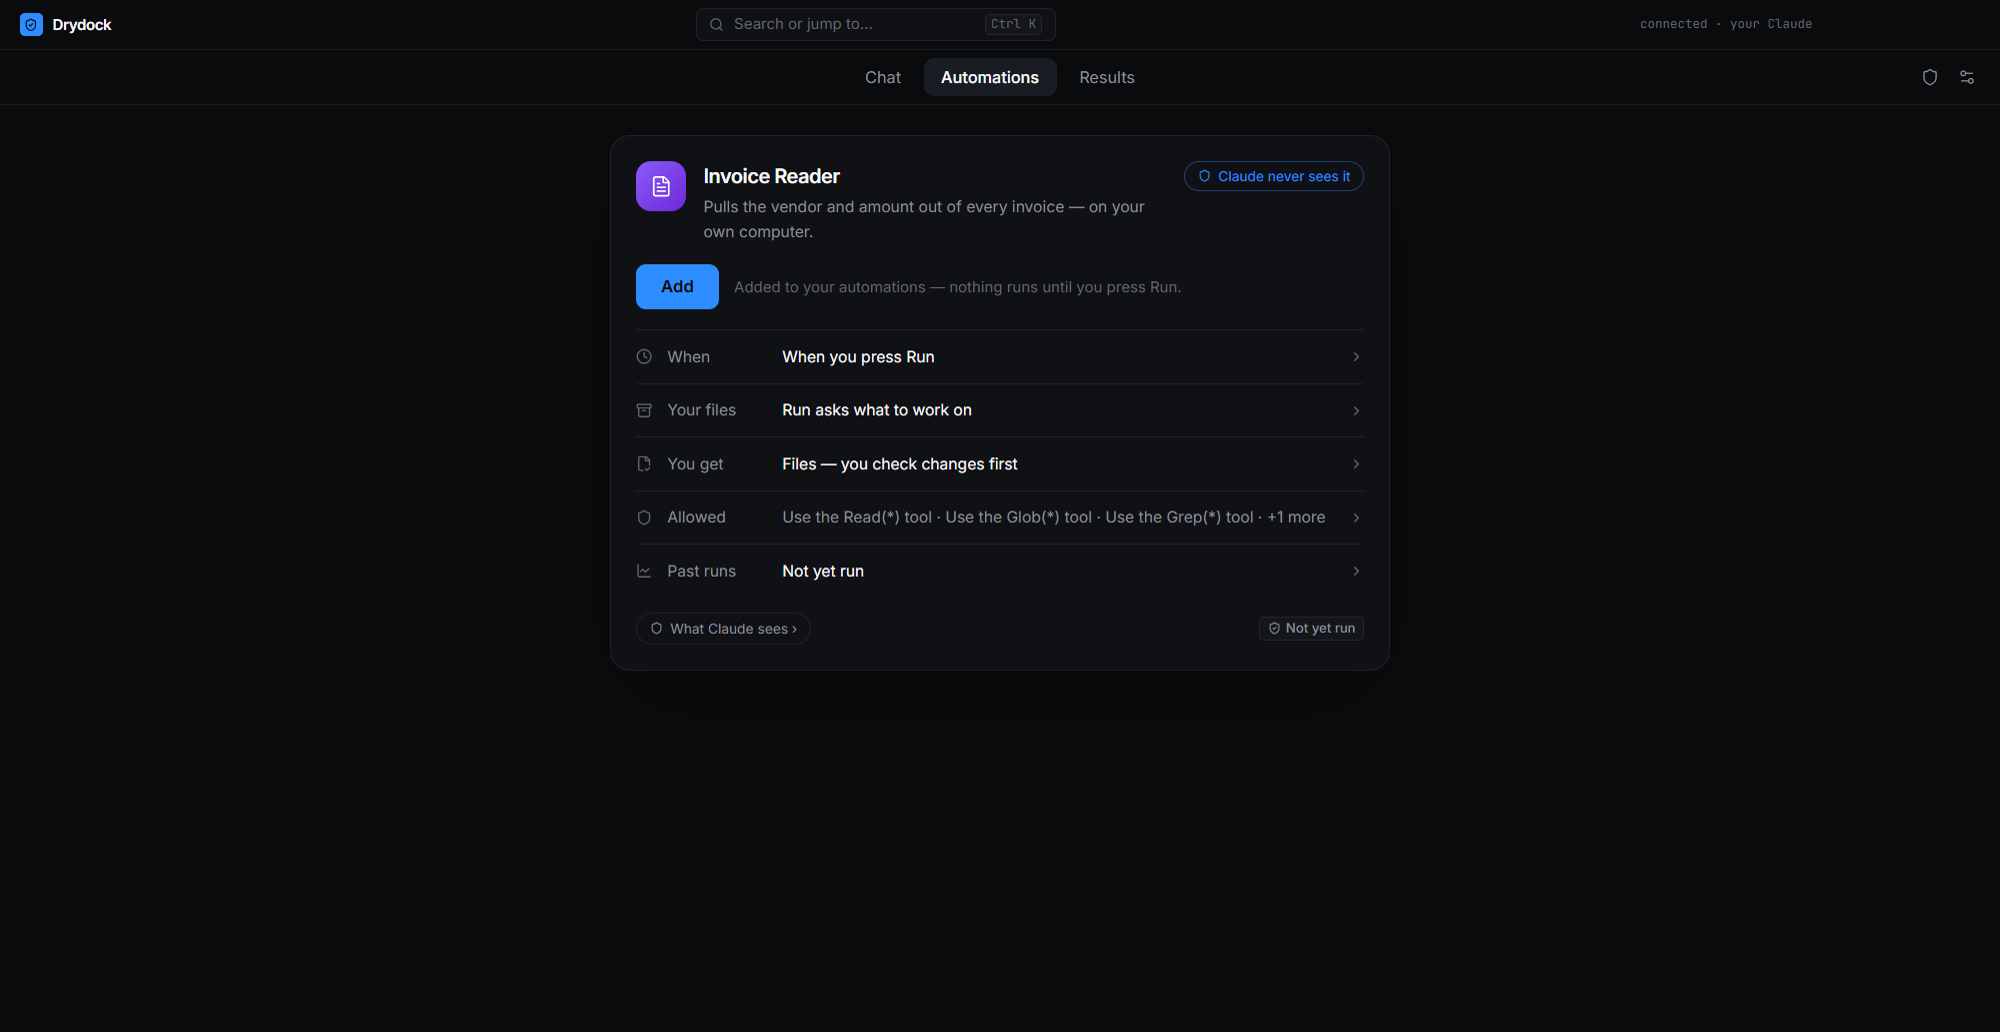
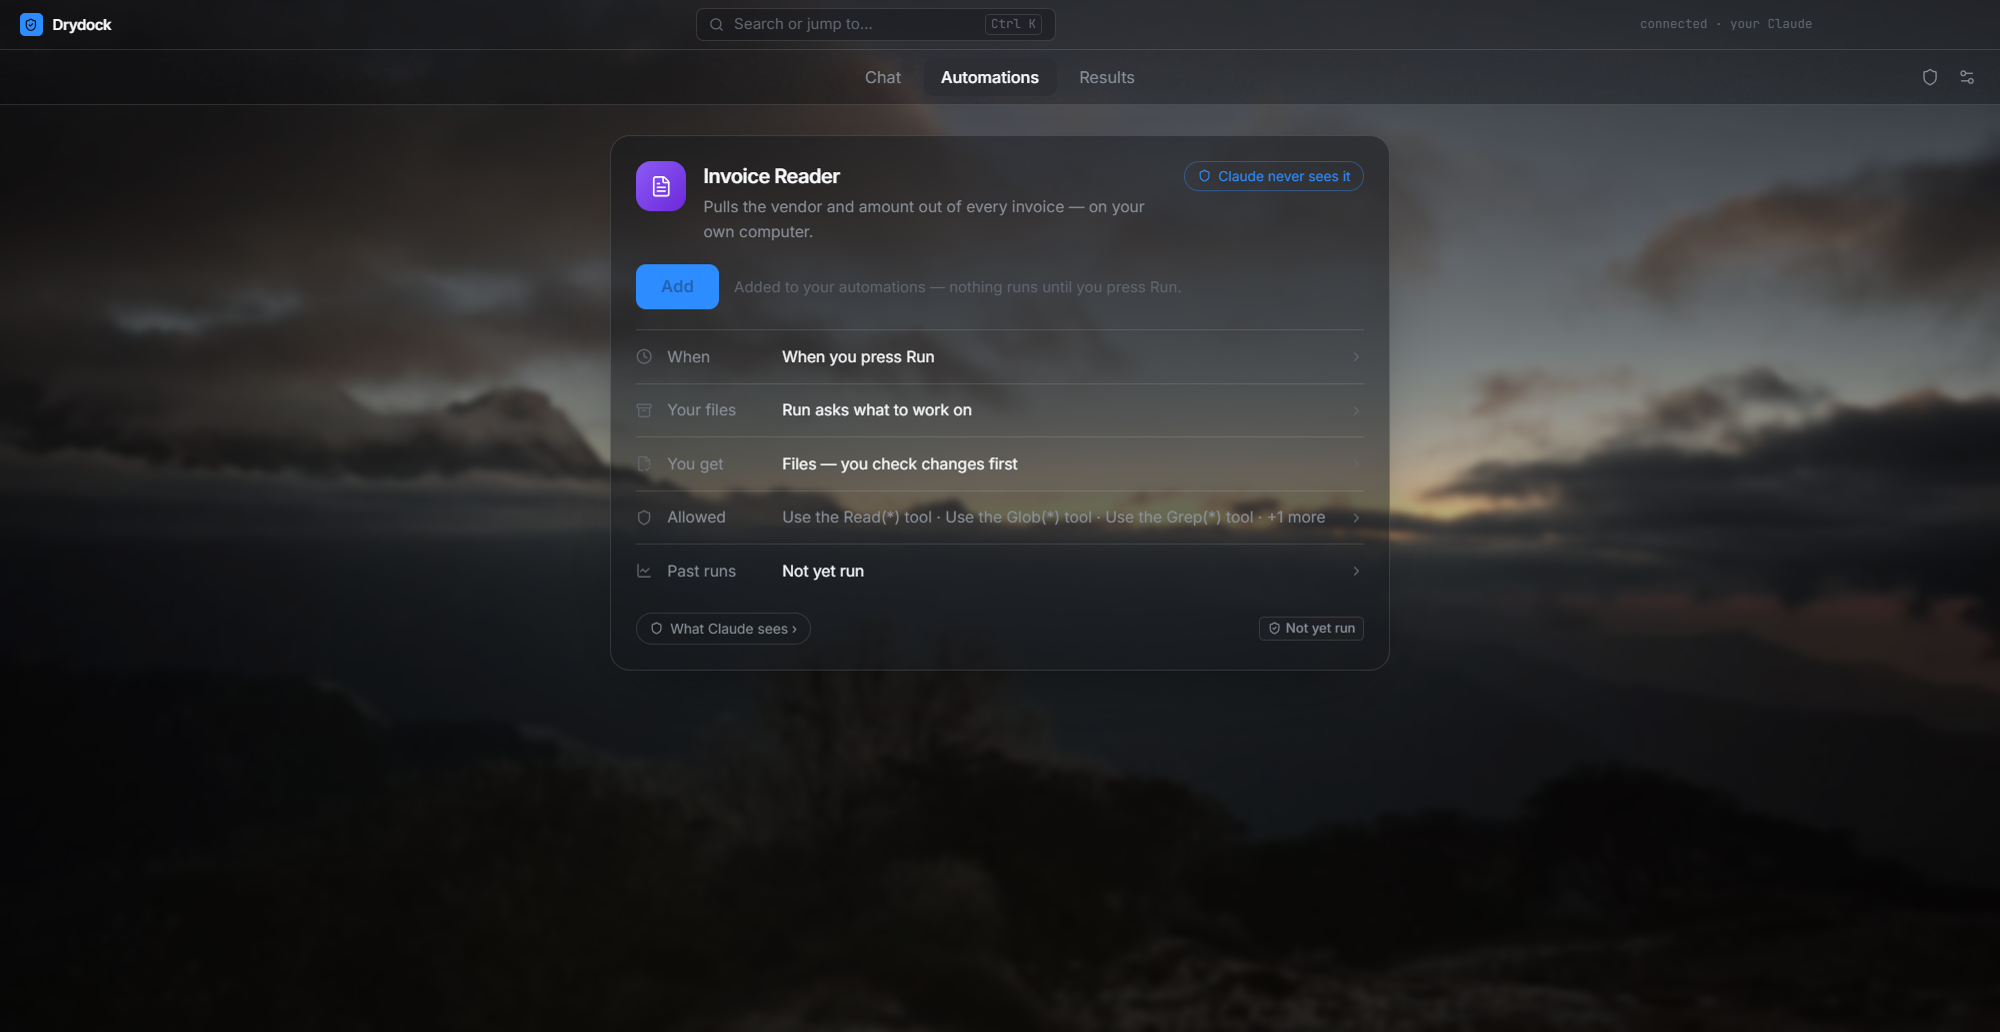
feat: batch-5/6 image sets — inside-the-app captures across every project
Drydock leads with its Chat tab and all three shots share the bundled
Dusk Ridge wallpaper (operator: match the second image's background).
FIGHT drops the rear-view Film Room shot for a front-lit robot, the
basement Practice scene, and the Loadout hub. Mivora and Echinoid keep
their home pages as leads (operator restored them) and walk real
features behind them: track path, mastery quiz, progress dashboard;
identify flow and Bill Thompson's species database (the mock-mode
results shot was rejected for its Mock banners). Document Intelligence
now leads with the dense architecture diagram (operator swap). Both
trust-stack diagrams get a clean single-circle CHECKS icon and a split
path that no longer grazes the LOW-RISK ring.

diff --git a/src/lib/content.ts b/src/lib/content.ts
@@ -44,6 +44,7 @@ export const projects: Project[] = [
     ],
     stack: ["Electron", "TypeScript", "React", "Chrome MV3", "Windows UIA", "Ollama", "Claude Code"],
     images: [
+      { src: "/projects/drydock-chat.png", alt: "Drydock — the Chat tab: a plain-English request drafted in the composer, with your own Claude connected", width: 2000, height: 703 },
       { src: "/projects/drydock.png", alt: "Drydock — automation run timeline with token and cost receipt", width: 2000, height: 1030 },
       { src: "/projects/drydock-editor.png", alt: "Drydock — an automation's detail sheet: when it runs, which files it reads, what you get, allowed tools, and past runs, with the 'Claude never sees it' privacy badge", width: 2000, height: 1032 },
     ],
@@ -92,7 +93,9 @@ export const projects: Project[] = [
     stack: ["Next.js", "React", "TypeScript", "Three.js", "Tailwind", "Python (CV pipeline)"],
     images: [
       { src: "/projects/fight.png", alt: "FIGHT — Shadow League in-game bout with broadcast HUD", width: 1600, height: 880 },
-      { src: "/projects/fight-film.png", alt: "FIGHT — Film Room: a captured shadow replayed on a 3D fighter under the spotlight, with playback scrubber and speed controls", width: 1600, height: 1000 },
+      { src: "/projects/fight-robot.png", alt: "FIGHT — the ATLAS-R fighter front-on in the Film Room, guard up under the ring spotlight", width: 1600, height: 1000 },
+      { src: "/projects/fight-practice.png", alt: "FIGHT — Practice in the basement: the robot squares up with a ghost partner under one bare bulb, drill presets and the punch deck alongside", width: 1600, height: 1000 },
+      { src: "/projects/fight-loadout.png", alt: "FIGHT — the Loadout hub: five equip slots, the move store, credits, and the fighter glowing with equipped gear", width: 1600, height: 1000 },
       { src: "/projects/fight-menu.png", alt: "FIGHT — mode select: Fight, Loadout, Practice, Watch, Training, and Physics Lab over the empty ring", width: 1600, height: 1000 },
     ],
     note: "Async tournaments are the next milestone.",
@@ -112,7 +115,10 @@ export const projects: Project[] = [
     stack: ["TypeScript", "React", "Vite", "Supabase", "ts-fsrs", "Vercel"],
     images: [
       { src: "/projects/mivora.png", alt: "Mivora home page — gamified AI skill tracks", width: 1600, height: 1000 },
+      { src: "/projects/mivora-track.png", alt: "Mivora — the Building with AI path: lesson 1 mastered with its project piece built, lesson 2 unlocked, later lessons locked behind the mastery checkpoint", width: 1600, height: 1000 },
+      { src: "/projects/mivora-practice.png", alt: "Mivora — a mastery-check question mid-lesson: instant verdict, the worked explanation, and Pando the mascot cheering the streak", width: 1600, height: 1000 },
       { src: "/projects/mivora-lesson.png", alt: "Mivora lesson page — Bit vs. Qubit, lesson 1 of the Quantum Computing track", width: 1600, height: 1000 },
+      { src: "/projects/mivora-progress.png", alt: "Mivora — the progress dashboard: level ring, XP, tokens, Bronze league, streaks, avatars, and unlockable titles", width: 1600, height: 1000 },
     ],
   },
   {
@@ -129,8 +135,8 @@ export const projects: Project[] = [
     ],
     stack: ["Python", "PyMuPDF", "Tesseract", "Sentence-Transformers", "FAISS", "OpenAI", "Gradio"],
     images: [
-      { src: "/projects/rag.png", alt: "Document Intelligence — five-stage RAG pipeline: ingest, chunk, embed, retrieve, generate", width: 1600, height: 1000 },
       { src: "/projects/rag-detail.png", alt: "Document Intelligence — detailed architecture with per-stage internals, fallbacks, and model choices (expand to read)", width: 1600, height: 1000 },
+      { src: "/projects/rag.png", alt: "Document Intelligence — five-stage RAG pipeline: ingest, chunk, embed, retrieve, generate", width: 1600, height: 1000 },
     ],
     repoUrl: "https://github.com/Awalker77s/Document-Intelligence-Pipeline",
   },
@@ -166,6 +172,8 @@ export const projects: Project[] = [
     stack: ["TypeScript", "React", "Supabase", "Edge Functions", "OpenAI", "Stripe"],
     images: [
       { src: "/projects/echinoid.png", alt: "Echinoid ID — fossil identification interface", width: 1600, height: 965 },
+      { src: "/projects/echinoid-identify.png", alt: "Echinoid ID — identifying a specimen: a fossil photo attached as the aboral view, with free identifications remaining", width: 1600, height: 1000 },
+      { src: "/projects/echinoid-collection.png", alt: "Echinoid ID — Bill Thompson's species database: genus, family, formation, and age for each reference specimen, with draft entries", width: 1600, height: 1000 },
       { src: "/projects/echinoid-how.png", alt: "Echinoid ID — how it works: upload photos, add field details, analyze features, compare", width: 1600, height: 1000 },
     ],
   },
